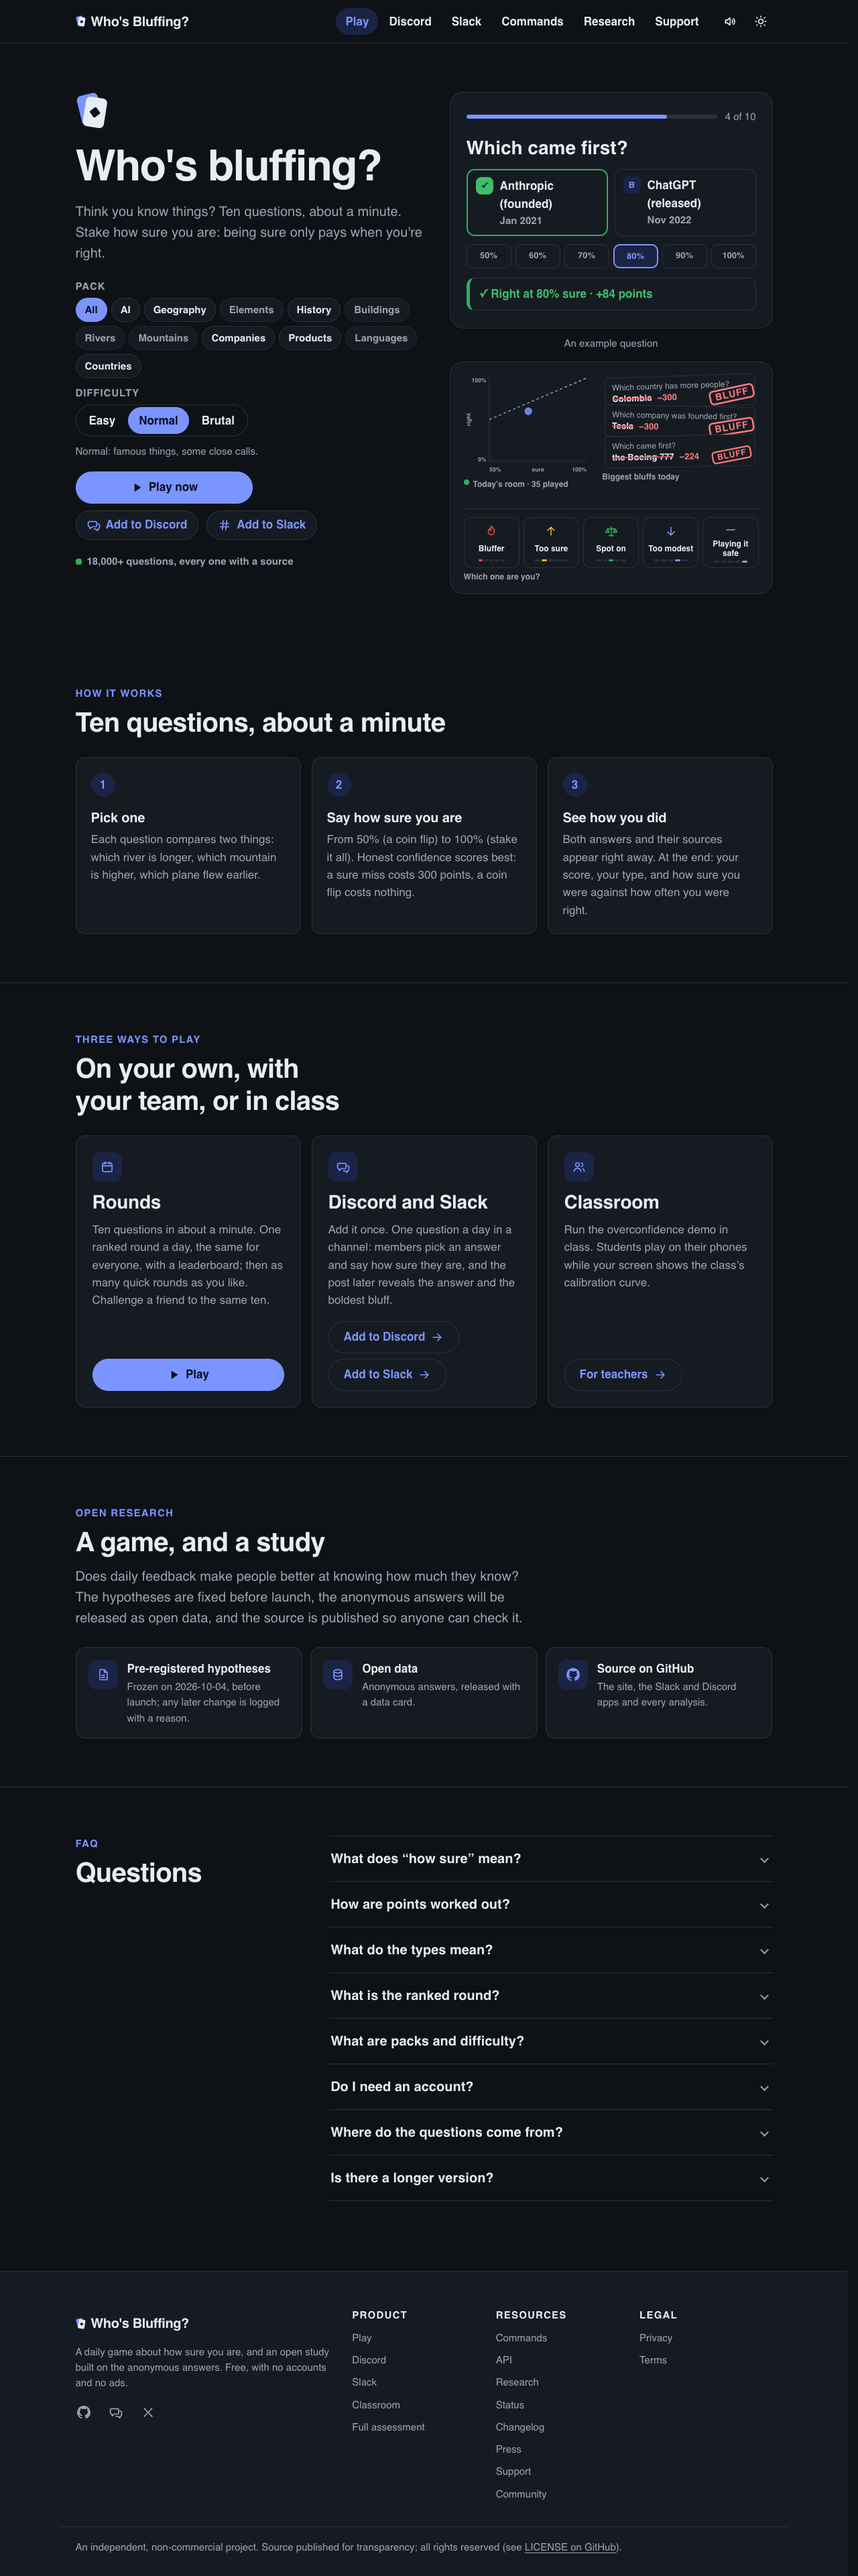
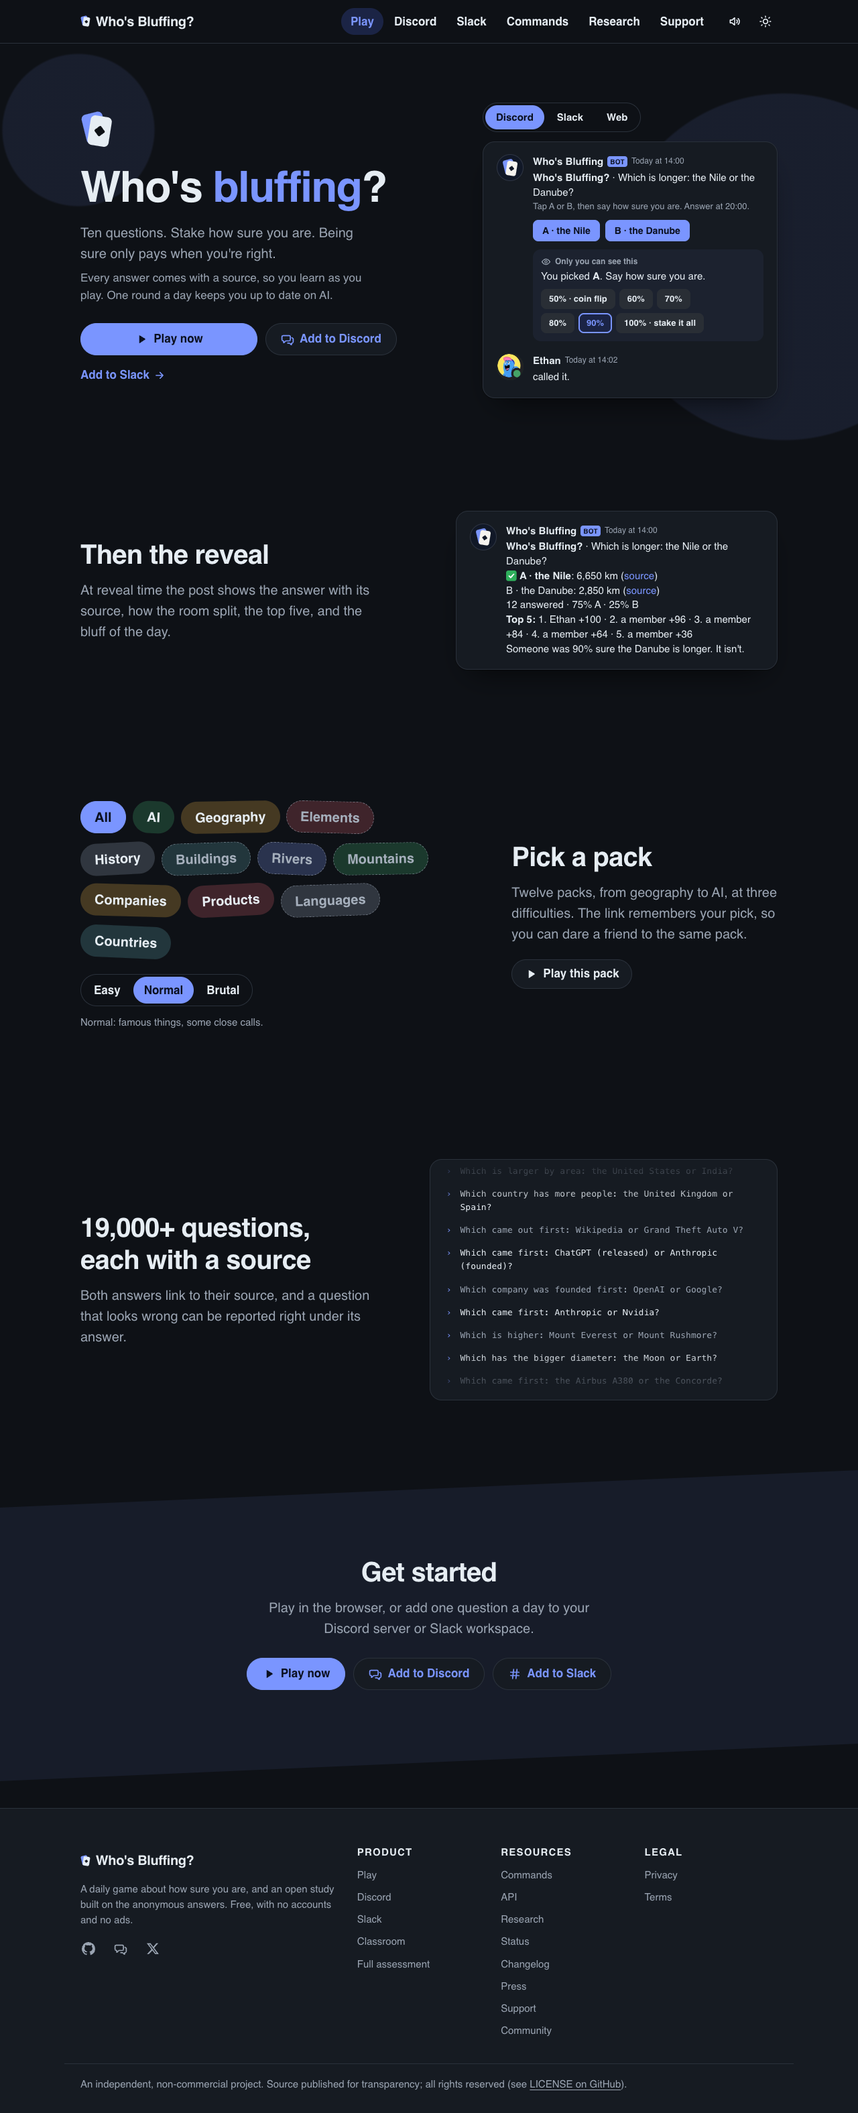
press, screens: home page screenshots regenerated for v2

diff --git a/web/public/press.html b/web/public/press.html
@@ -70,7 +70,7 @@
   <div class="wrap">
     <div class="section-head"><p class="eyebrow">Screenshots</p><h2 id="shots-title">Screenshots</h2></div>
     <ul class="press-grid">
-      <li class="press-item"><img src="/press/screen-home.png" width="1280" height="800" loading="lazy" alt="The home page: Who's bluffing?, the pack and difficulty choice and the Play now button"><p><b>Home page</b> · <a href="/press/screen-home.png" download><svg class="i" viewBox="0 0 24 24" aria-hidden="true" focusable="false"><path d="M12 4v11M7 10.5l5 5 5-5M5 19.5h14"/></svg>PNG</a></p></li>
+      <li class="press-item"><img src="/press/screen-home.png" width="1280" height="800" loading="lazy" alt="The home page: Who's bluffing?, one sentence, Play now and Add to Discord, and the Discord message mock on the right"><p><b>Home page</b> · <a href="/press/screen-home.png" download><svg class="i" viewBox="0 0 24 24" aria-hidden="true" focusable="false"><path d="M12 4v11M7 10.5l5 5 5-5M5 19.5h14"/></svg>PNG</a></p></li>
       <li class="press-item"><img class="press-phone" src="/press/screen-question.png" width="375" height="812" loading="lazy" alt="A question answered on a phone: both values with their sources, the points and a reaction"><p><b>A question, on a phone</b> · <a href="/press/screen-question.png" download><svg class="i" viewBox="0 0 24 24" aria-hidden="true" focusable="false"><path d="M12 4v11M7 10.5l5 5 5-5M5 19.5h14"/></svg>PNG</a></p></li>
       <li class="press-item"><img src="/press/screen-result.png" width="1280" height="1694" loading="lazy" alt="The end of a round in the dark theme: score, result squares, type card and calibration chart"><p><b>End of a round</b> · <a href="/press/screen-result.png" download><svg class="i" viewBox="0 0 24 24" aria-hidden="true" focusable="false"><path d="M12 4v11M7 10.5l5 5 5-5M5 19.5h14"/></svg>PNG</a></p></li>
       <li class="press-item"><img src="/press/screen-discord.png" width="1280" height="800" loading="lazy" alt="The Discord page: the daily question, the private confidence picker and the reveal"><p><b>Discord app</b> · <a href="/press/screen-discord.png" download><svg class="i" viewBox="0 0 24 24" aria-hidden="true" focusable="false"><path d="M12 4v11M7 10.5l5 5 5-5M5 19.5h14"/></svg>PNG</a></p></li>
